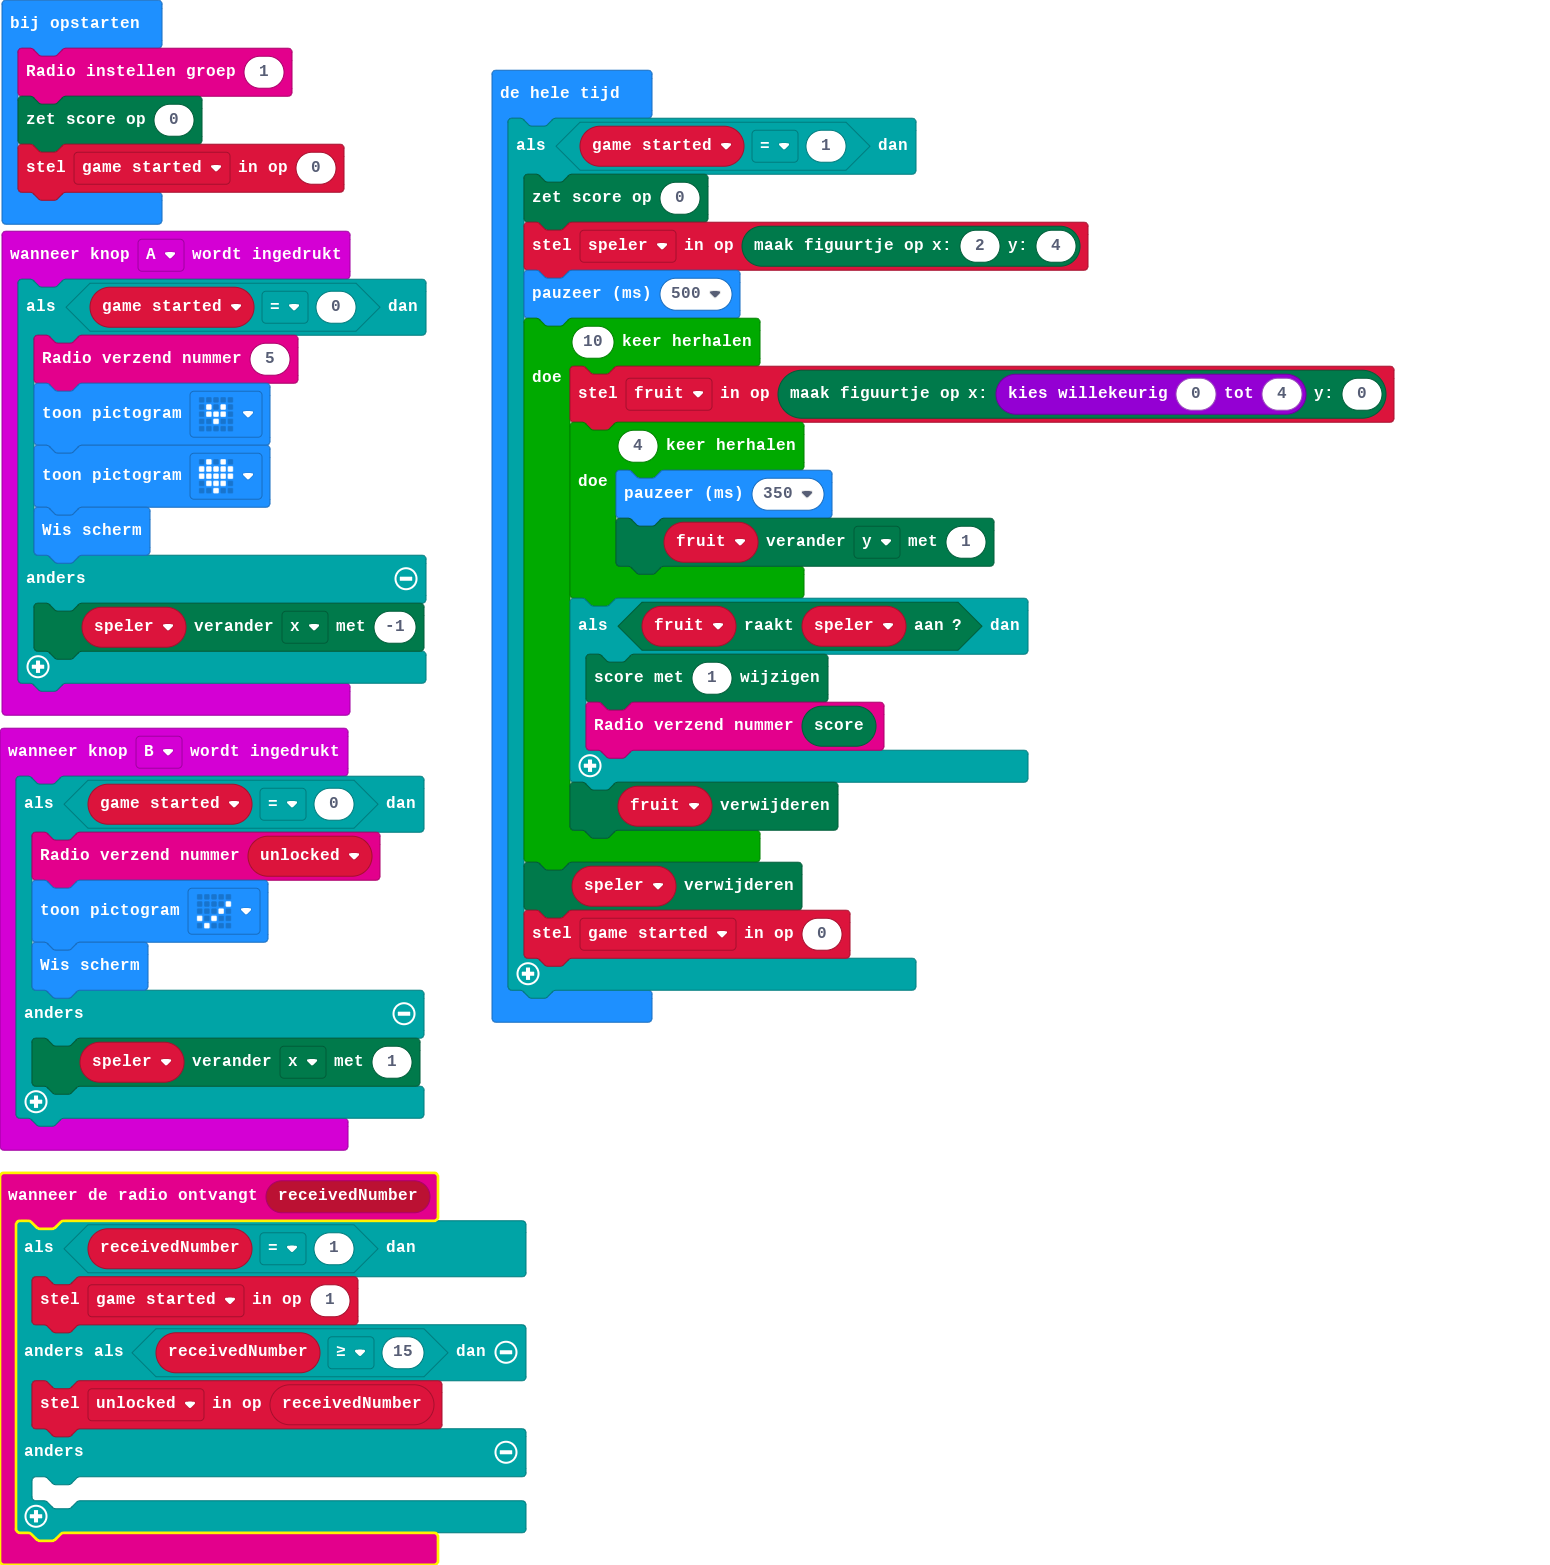
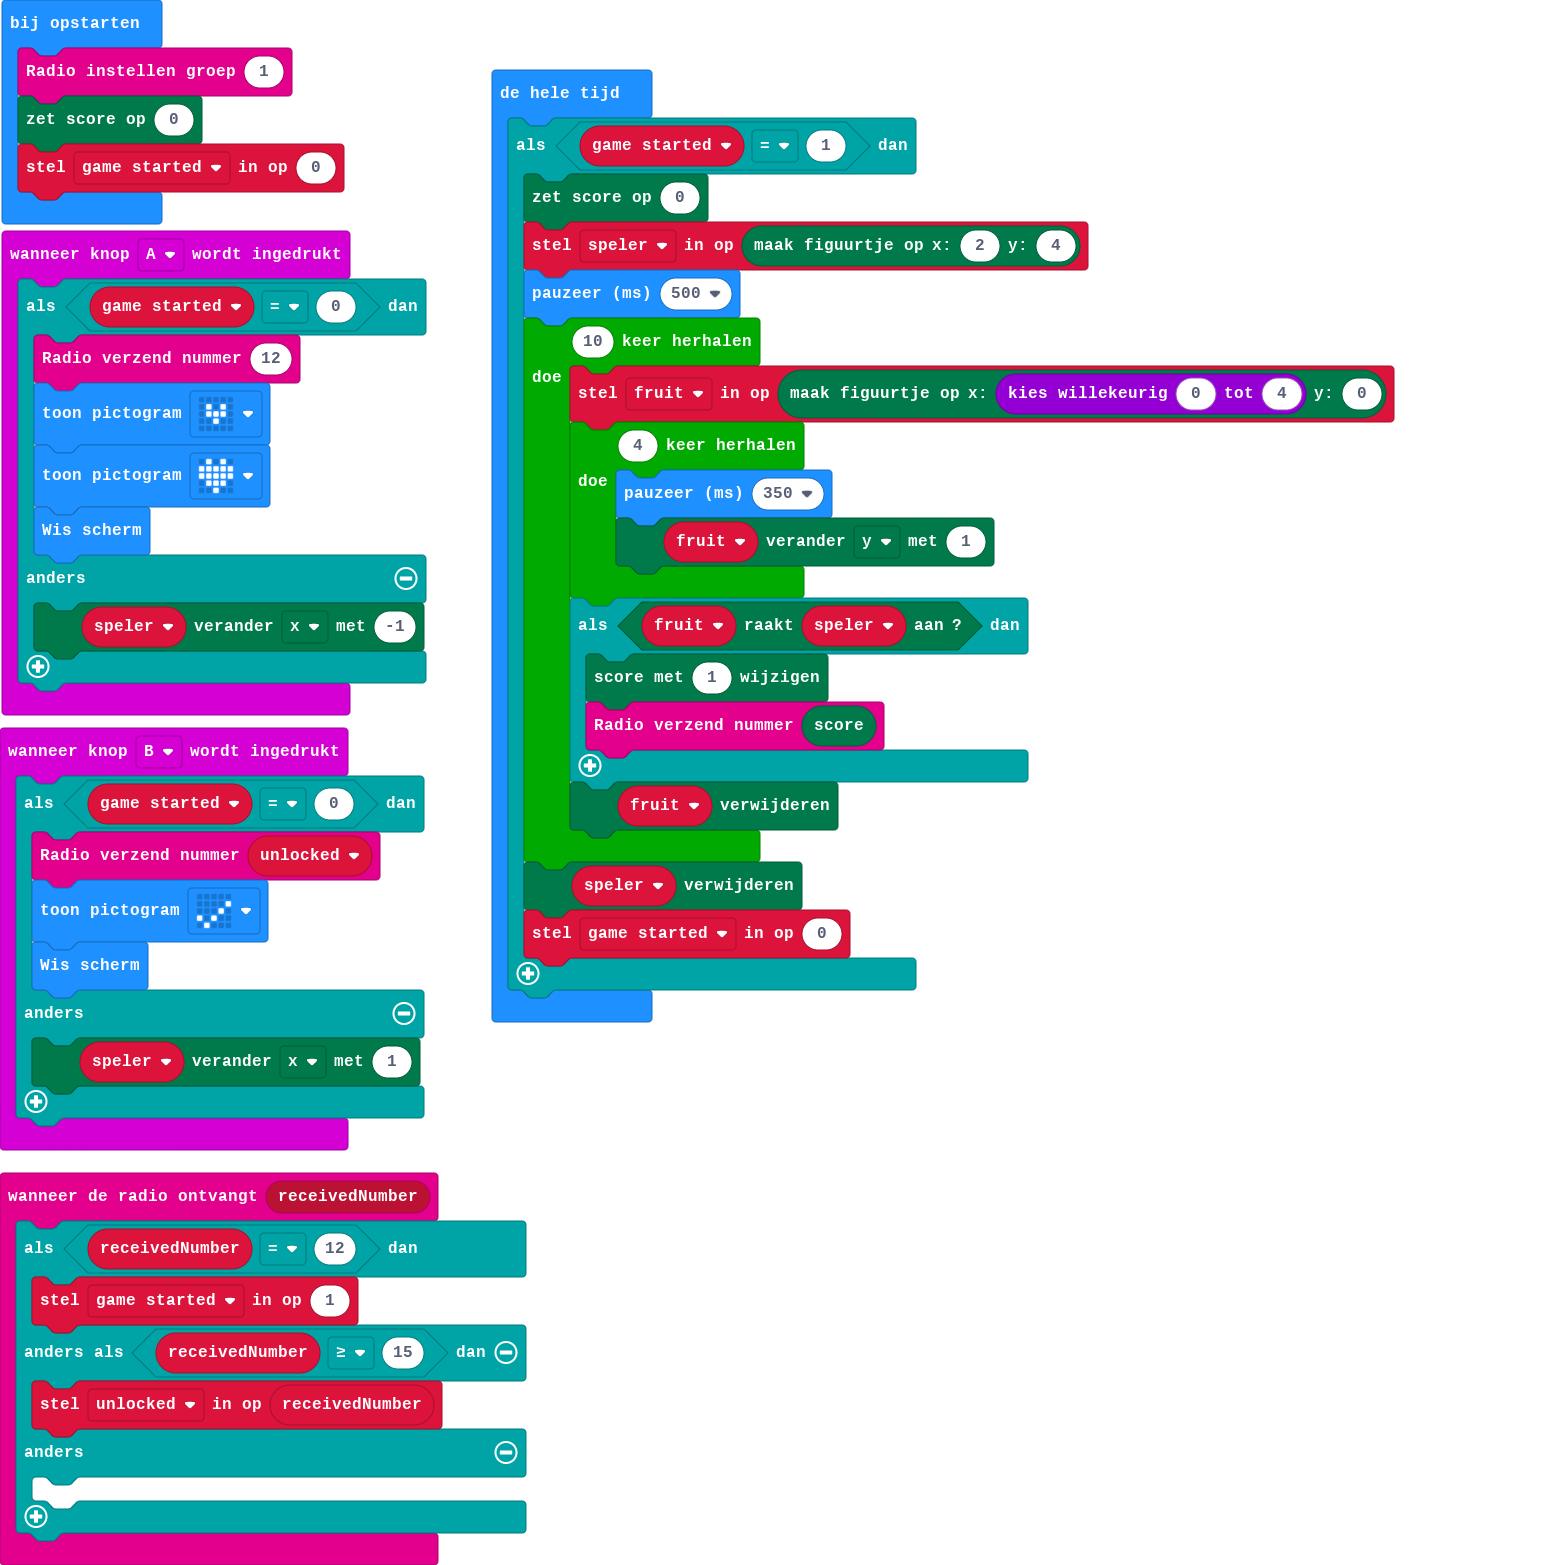
main.blocks, main.ts bijwerken

diff --git a/main.ts b/main.ts
@@ -1,5 +1,5 @@
 radio.onReceivedNumber(function (receivedNumber) {
-    if (receivedNumber == 1) {
+    if (receivedNumber == 12) {
         game_started = 1
     } else if (receivedNumber >= 15) {
         unlocked = receivedNumber
@@ -9,7 +9,7 @@ radio.onReceivedNumber(function (receivedNumber) {
 })
 input.onButtonPressed(Button.A, function () {
     if (game_started == 0) {
-        radio.sendNumber(5)
+        radio.sendNumber(12)
         basic.showIcon(IconNames.SmallHeart)
         basic.showIcon(IconNames.Heart)
         basic.clearScreen()
